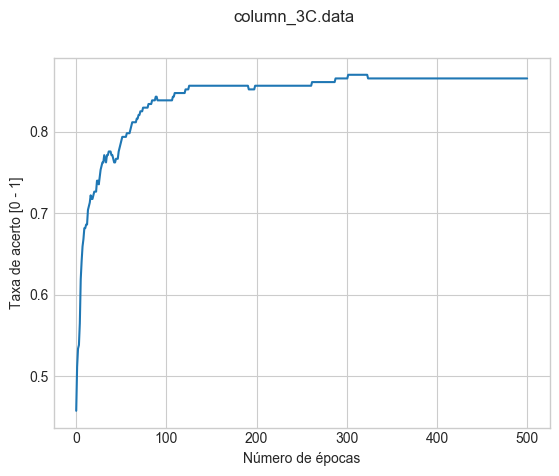
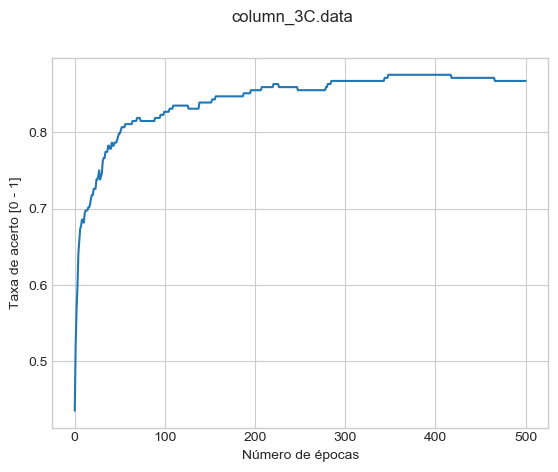
Final MLP

Changed region(s): [[0.0, 0.1186, 1.0, 0.9788], [0.3961, 0.0, 0.6398, 0.0593]]

diff --git a/MLP.py b/MLP.py
@@ -7,13 +7,13 @@ ClassificationDatasets.COLUNA,
 ClassificationDatasets.DERMATOLOGY,
 ClassificationDatasets.CANCER,
 ClassificationDatasets.ARTIFICIAL_XOR]
-datasets = [ClassificationDatasets.IRIS]
+# datasets = [ClassificationDatasets.IRIS]
 # datasets = [Datasets.IRIS, Datasets.ARTIFICIAL_XOR]
 NUMBER_OF_FOLDS = 5
-NUMBER_OF_REALIZATIONS = 3
-NUMBER_OF_EPOCHS = 200
+NUMBER_OF_REALIZATIONS = 20
+NUMBER_OF_EPOCHS = 500
 # NEURONS_RANGE = range(3, 6, 2)
-NEURONS_RANGE = [5, 12]
+NEURONS_RANGE = [3, 5, 7, 9, 12, 15]
 
 for dataset in datasets:
 
